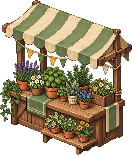
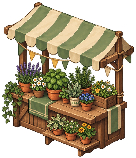
fix(garden): herbology festival hero no longer touches its canvas edge
Same pixels, padded 2 px left/right/top and 1 px bottom; record and
provenance follow. 315 tests pass.

diff --git a/docs/grid-fit-misfits.md b/docs/grid-fit-misfits.md
@@ -2,7 +2,7 @@
 
 Tạo bởi `node garden-v05/audit-grid-fit.mjs` theo [guideline khớp ô](grid-fit-guideline.md). Số đo là pixel thế giới ở zoom 1, đo từ phần có màu (alpha > 0) của file đang chạy trong game. Không sửa tay file này.
 
-Đã đo 147 món (242 hình, tính cả hai hướng xoay). Lệch: **13 món** — nặng 0, vừa 0, nhẹ 13. Đạt: 134.
+Đã đo 147 món (242 hình, tính cả hai hướng xoay). Lệch: **12 món** — nặng 0, vừa 0, nhẹ 12. Đạt: 135.
 
 Cột «Tạo lại»: canvas rộng × cao, pivot (x, y) = điểm chân, khung mực tối đa rộng × cao. Vẽ lại hoặc xuất lại từ master ở kích thước đó; không thu nhỏ ảnh đã xuất. «Hoặc nền» là nền nhỏ nhất vừa hình hiện tại, chỉ dùng khi chủ dự án muốn giữ nguyên hình (đổi catalog + server, không áp cho save cũ).
 
@@ -35,11 +35,9 @@ Tất cả đạt.
 | nhẹ | Tượng Que Xạo `keepsake_bowtruckle` | 1×1 · 64×32 | 25×44 · 56×56 · (28,50) | chỉ phủ 39% bề ngang nền | vẽ to hơn (tuỳ chọn) | 64×96 · (32,80) · ≥ 39×69 | — |
 | nhẹ | Tượng Mooncalf `keepsake_mooncalf` | 1×1 · 64×32 | 24×44 · 56×56 · (28,50) | chỉ phủ 38% bề ngang nền | vẽ to hơn (tuỳ chọn) | 64×96 · (32,80) · ≥ 39×72 | — |
 
-## Cổng lễ hội — 1 món
+## Cổng lễ hội
 
-| Mức | Món | Nền (ô · px) | Hình hiện tại (mực · canvas · pivot) | Lỗi | Cách sửa | Tạo lại: canvas · pivot · khung mực | Hoặc nền |
-|---|---|---|---|---|---|---|---|
-| nhẹ | Cổng Hội chợ Thảo dược `hero-herbology` | 2×2 · 128×64 | 132×155 · 132×155 · (66,154) | mực chạm mép canvas | nới canvas | 134×192 · (67,160) · giữ 132×155 | — |
+Tất cả đạt.
 
 ## Cây trồng (giai đoạn chín) — 2 món
 
